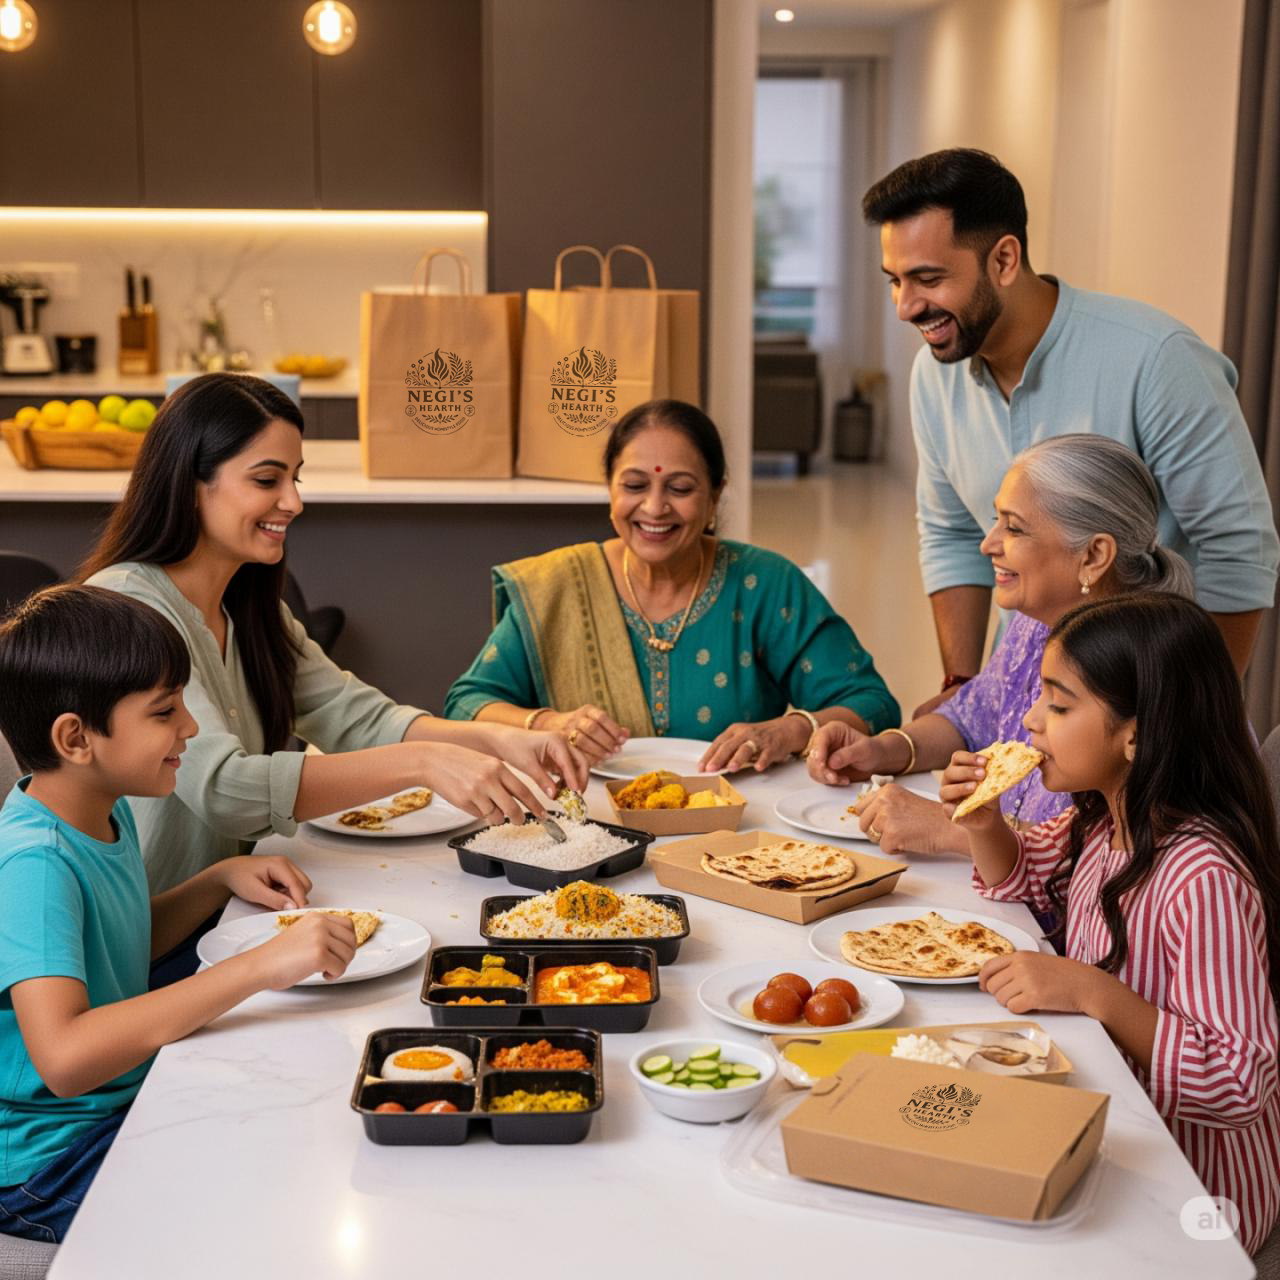
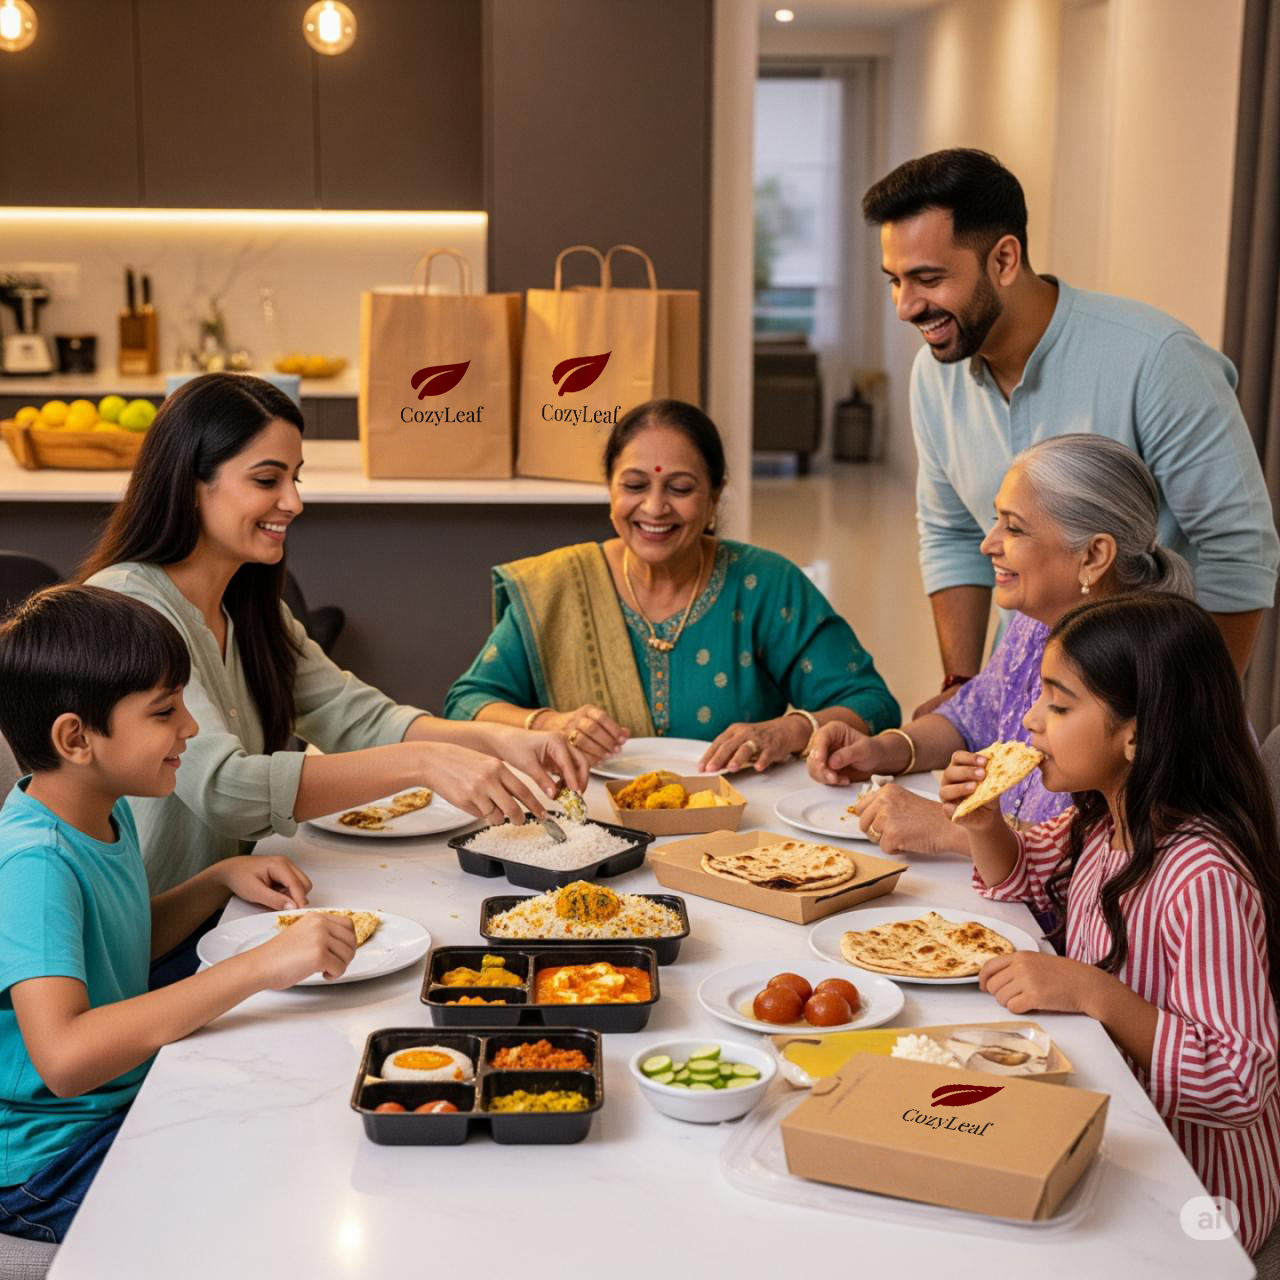
changes in about story iamge in footer

Changed region(s): [[0.4062, 0.25, 0.5, 0.3438], [0.6875, 0.8438, 0.7812, 0.9062], [0.3125, 0.2812, 0.375, 0.3438]]

diff --git a/src/views/About.vue b/src/views/About.vue
@@ -41,13 +41,7 @@
           <p
             class="font-body text-base sm:text-lg md:text-xl lg:text-1xl text-gray-700 max-w-xl mb-4"
           >
-            At Negi's Hearth, we serve more than just meals — we serve memories.
-            Inspired by the warmth of Indian kitchens and the comfort of
-            home-cooked food, our cloud kitchen brings delicious home style
-            food straight to your doorstep. Whether you’re away from home or
-            just craving something truly comforting, our dishes are made to
-            remind you of your favorite family recipes — fresh, flavorful, and
-            filled with love.
+      At Cozy Leaf, we serve more than just meals — we serve memories. Inspired by the warmth of home kitchens and the comfort of home-cooked food, our cloud kitchen brings delicious, home-style dishes straight to your doorstep. Whether you’re away from home or simply craving something truly comforting, our meals are crafted to remind you of your favorite family recipes — fresh, flavorful, and made with love
           </p>
         </div>
       </div>

diff --git a/src/views/ContactUs.vue b/src/views/ContactUs.vue
@@ -63,7 +63,7 @@
             </svg>
             <span
               class="font-body text-base sm:text-lg md:text-xl lg:text-1xl text-gray-700 italic max-w-xl mb-4"
-              >negishearth@gmail.com</span
+              >cozyLeaf@gmail.com</span
             >
           </li>
 

diff --git a/src/components/Footer.vue b/src/components/Footer.vue
@@ -19,7 +19,7 @@
         <img
           src="/CozyLeaf/logo-footer.png"
           alt="Footer Logo"
-          class="w-14 sm:w-28 md:w-32 lg:w-20 h-auto object-contain"
+          class="w-40 sm:w-28 md:w-32 lg:w-60 h-auto object-contain"
         />
       </div>
     </div>
